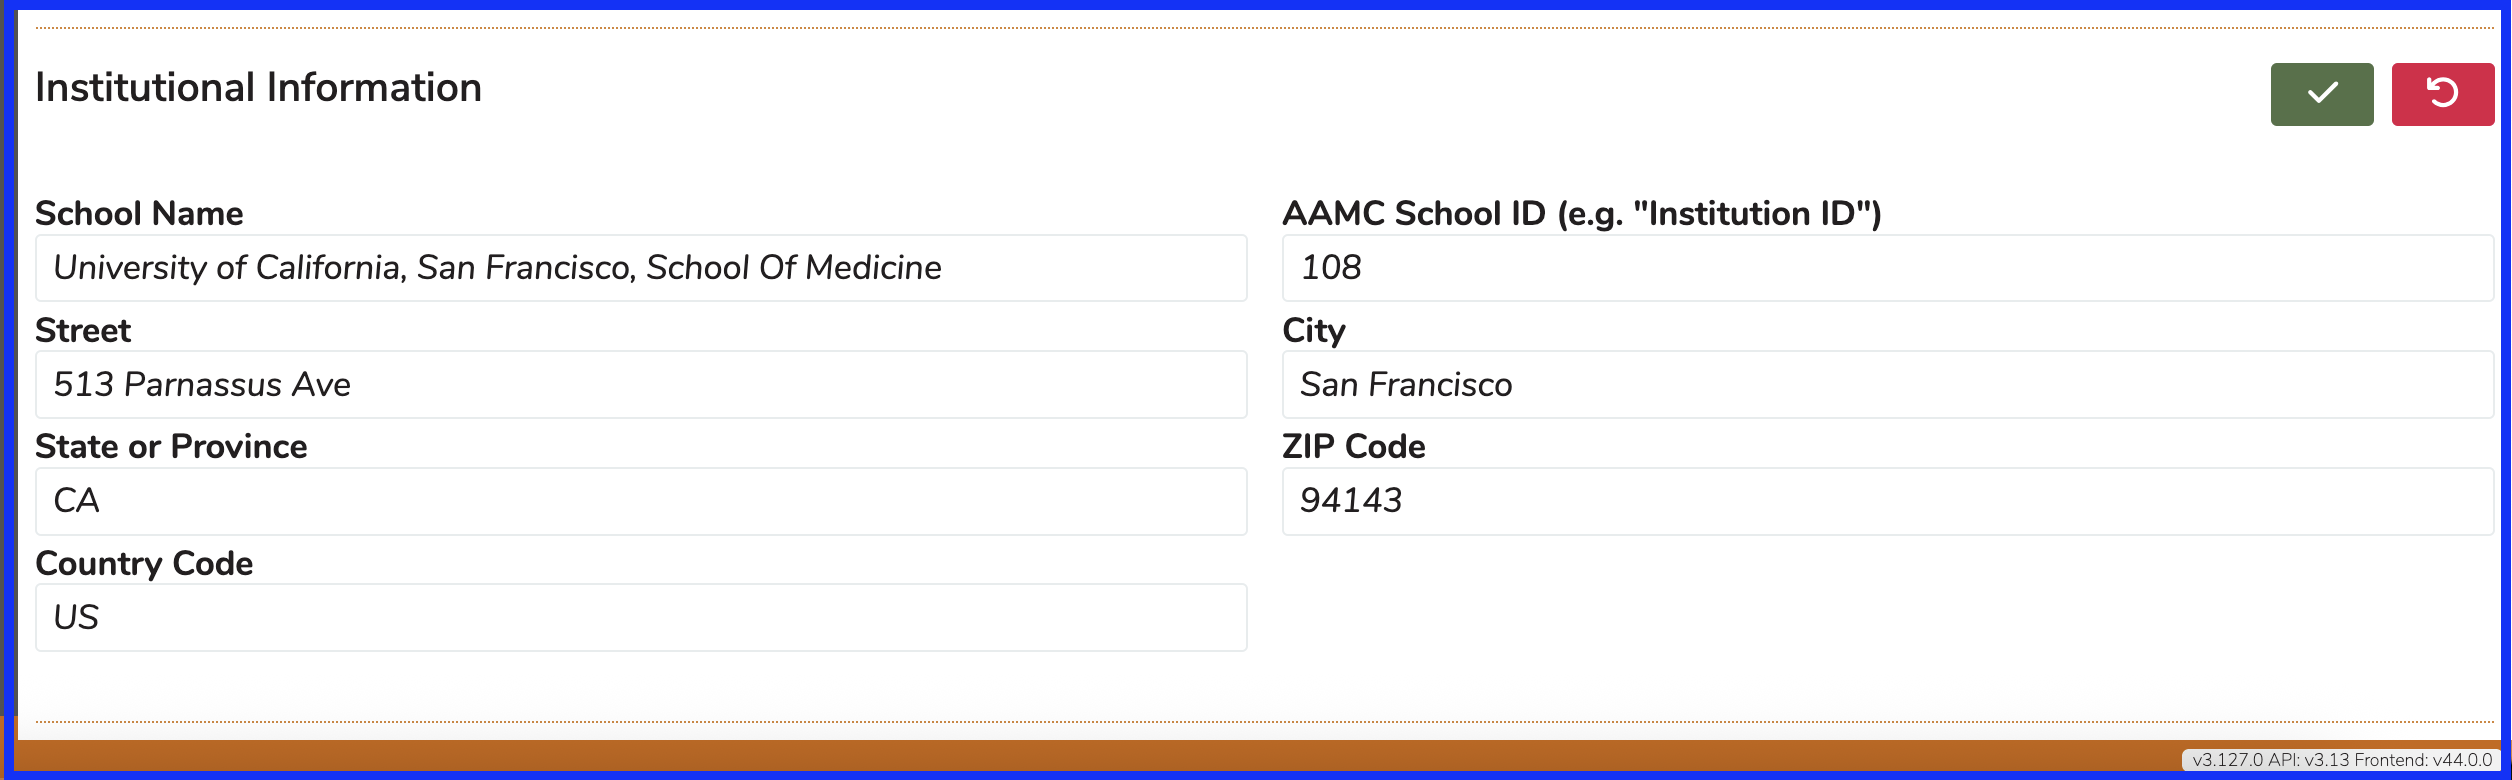
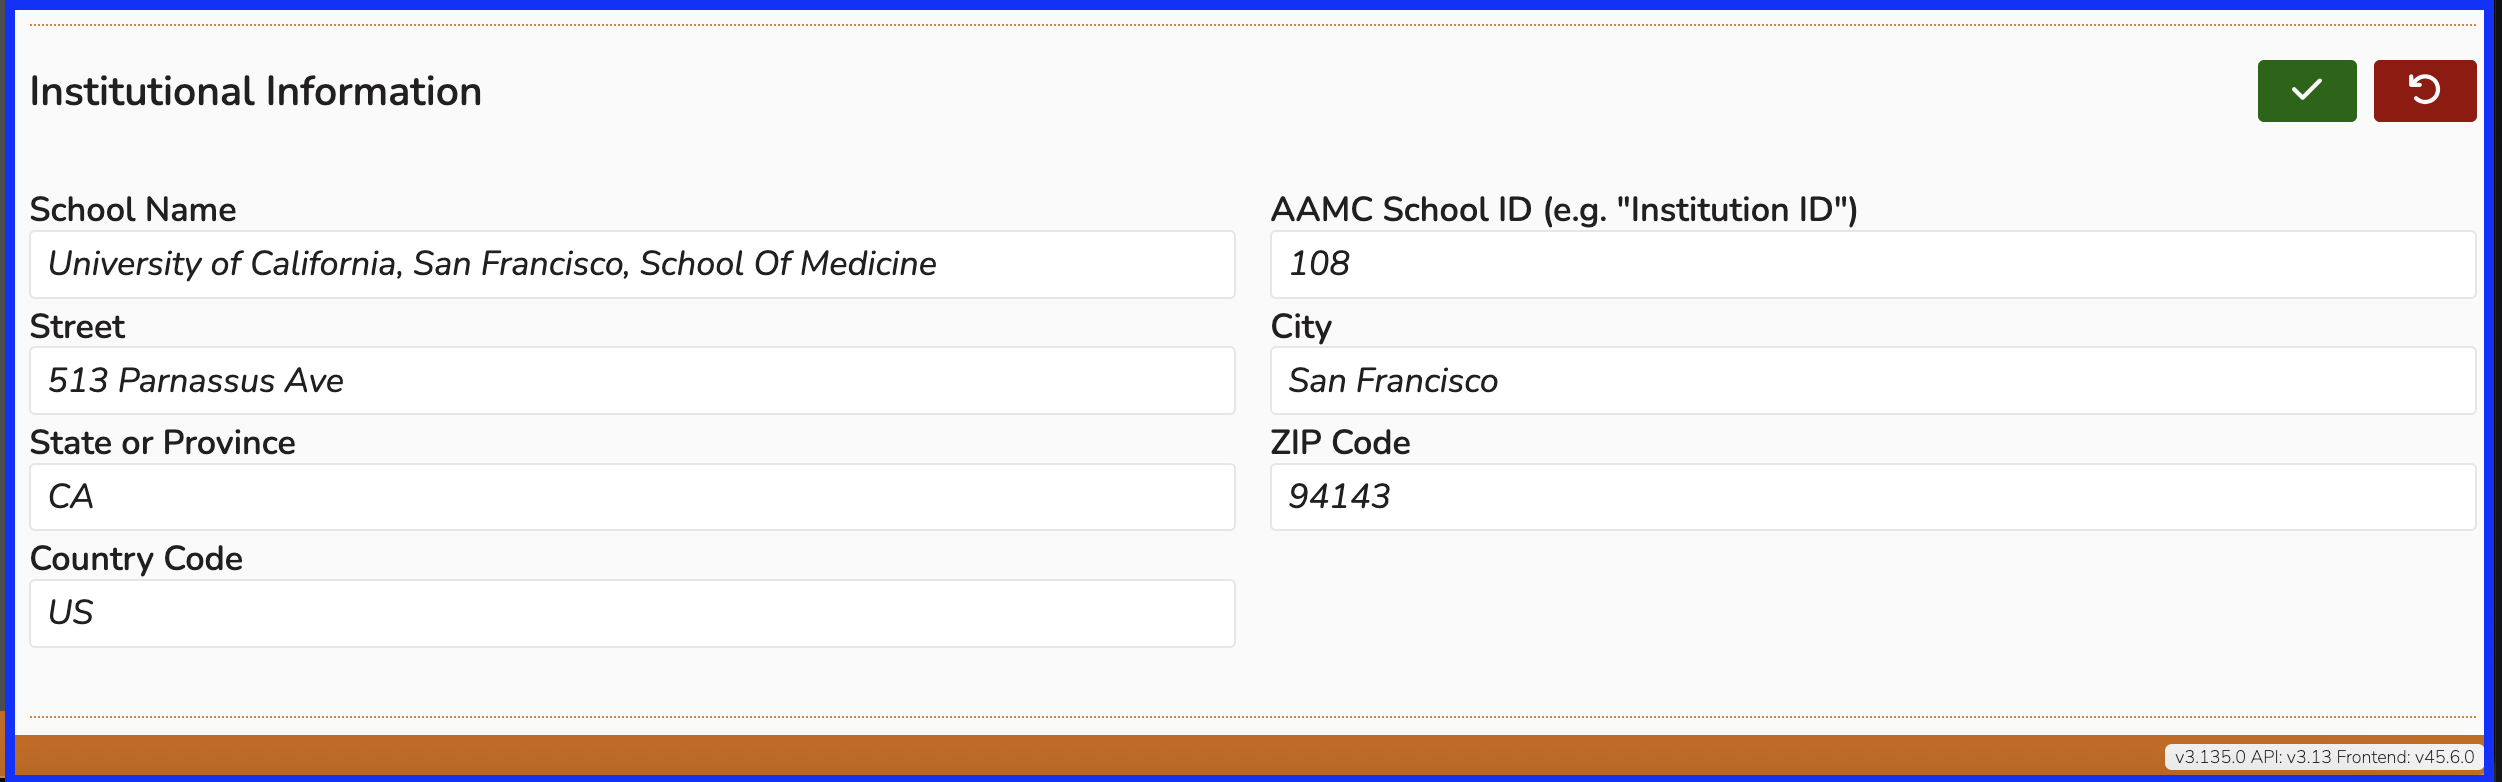
updated page title and links and image

diff --git a/SUMMARY.md b/SUMMARY.md
@@ -98,7 +98,7 @@
   * [Session Types](schools/session-types.md)
   * [Session Attributes](schools/session-attributes.md)
   * [Manage Emails](schools/manage_emails.md)
-  * [Institutional Information](schools/curriculum-inventory-institution-information.md)
+  * [Institutional Information](schools/institutional_information.md)
   * [Multi-School Environment](schools/multi-school-environment.md)
 * [Programs](programs/README.md)
   * [Add New Program](programs/add-new-program.md)
